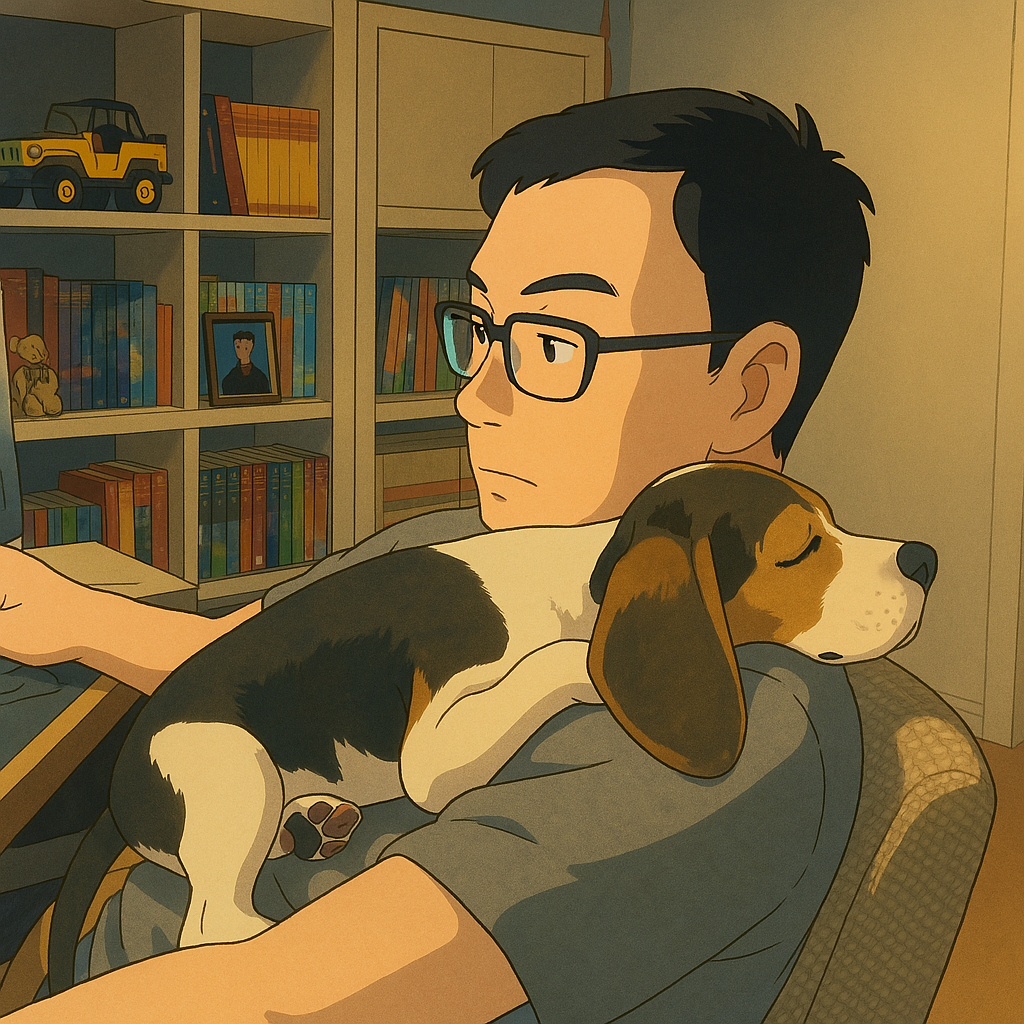
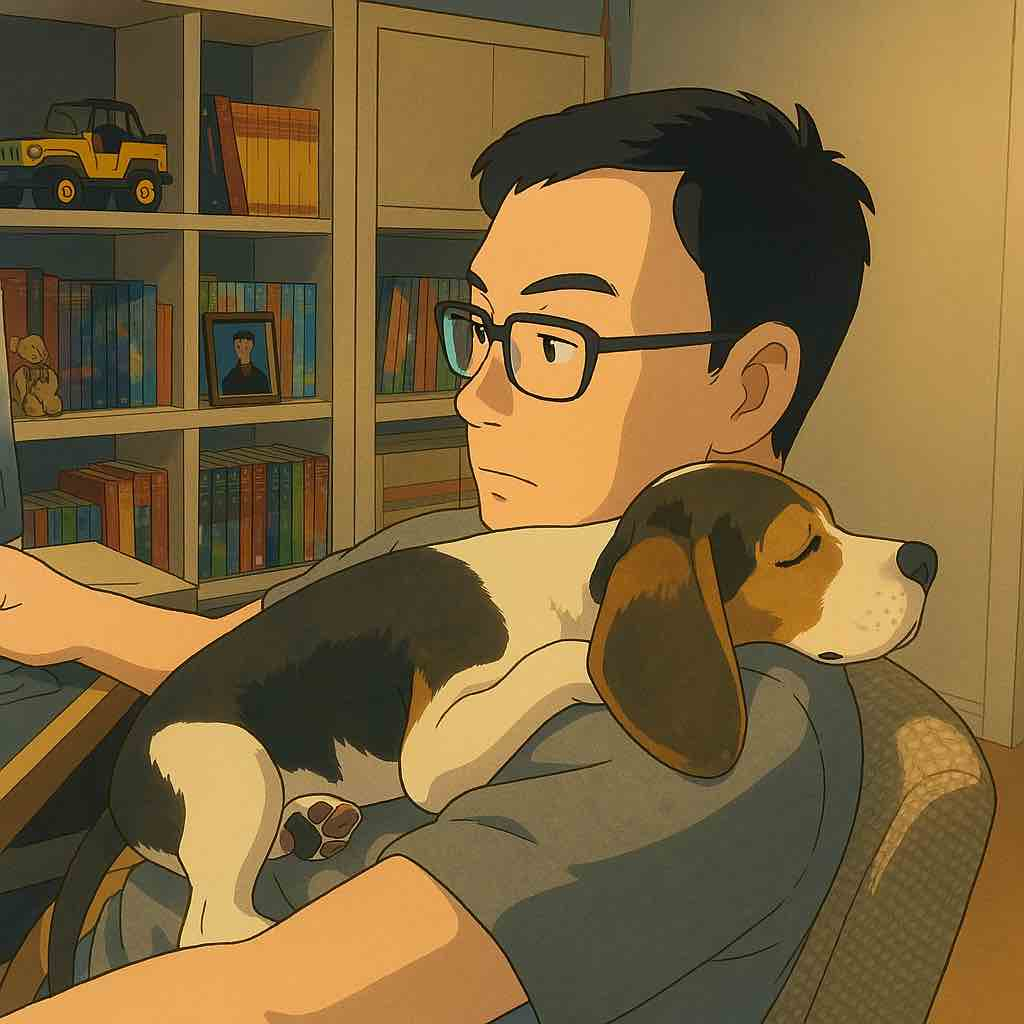
update

diff --git a/src/views/hero/index.vue b/src/views/hero/index.vue
@@ -66,7 +66,7 @@
       <!--background with image-->
       <div class="mx-auto max-w-7xl px-6 lg:px-8">
         <div class="relative isolate overflow-hidden bg-gray-900 py-24 sm:py-32">
-          <img src="/assets/images/hero/img_1.png" alt="" class="absolute inset-0 -z-10 size-full object-cover" />
+          <img src="/assets/images/hero/img_1.jpg" alt="" class="absolute inset-0 -z-10 size-full object-cover" />
           <div class="relative mx-auto max-w-7xl px-6 lg:px-8">
             <div class="absolute -bottom-8 -left-96 -z-10 transform-gpu blur-3xl sm:-bottom-64 sm:-left-40 lg:-bottom-32 lg:left-8 xl:-left-10" aria-hidden="true">
               <div class="aspect-[1266/975] w-[79.125rem] bg-gradient-to-tr from-[#ff4694] to-[#776fff] opacity-20" style="clip-path: polygon(74.1% 44.1%, 100% 61.6%, 97.5% 26.9%, 85.5% 0.1%, 80.7% 2%, 72.5% 32.5%, 60.2% 62.4%, 52.4% 68.1%, 47.5% 58.3%, 45.2% 34.5%, 27.5% 76.7%, 0.1% 64.9%, 17.9% 100%, 27.6% 76.8%, 76.1% 97.7%, 74.1% 44.1%)" />
@@ -109,7 +109,7 @@
                 </div>
                 <div class="relative min-h-[30rem] w-full grow [container-type:inline-size] max-lg:mx-auto max-lg:max-w-sm">
                   <div class="absolute inset-x-10 bottom-0 top-10 overflow-hidden rounded-t-[12cqw] border-x-[3cqw] border-t-[3cqw] border-gray-700 bg-gray-900 shadow-2xl">
-                    <img class="size-full object-cover object-top" src="/assets/images/hero/img_4.png" alt="" />
+                    <img class="size-full object-cover object-top" src="/assets/images/hero/img_4.jpg" alt="" />
                   </div>
                 </div>
               </div>
@@ -123,7 +123,7 @@
                   <p class="mt-2 max-w-lg text-sm/6 text-gray-600 max-lg:text-center">Use Xcode’s Organizer or Transporter (an Apple app) to upload the app to App Store Connect.</p>
                 </div>
                 <div class=" flex flex-1 items-center justify-center px-8 max-lg:pb-12 max-lg:pt-10 sm:px-10 lg:pb-2 ">
-                  <img class="w-full max-lg:max-w-xs rounded-2xl" src="/assets/images/hero/img_5.png" alt="" />
+                  <img class="w-full max-lg:max-w-xs rounded-2xl" src="/assets/images/hero/img_5.jpg" alt="" />
                 </div>
               </div>
               <div class="pointer-events-none absolute inset-px rounded-lg shadow ring-1 ring-black/5 max-lg:rounded-t-[2rem]" />

diff --git a/src/views/friends/index.vue b/src/views/friends/index.vue
@@ -103,31 +103,31 @@ export default {
         name: 'Melon',
         role: 'golden retriever',
         imageUrl:
-            '/assets/images/friends/Melon.png',
+            '/assets/images/friends/Melon.jpg',
       },
       {
         name: 'Mojo',
         role: 'Basenji',
         imageUrl:
-            '/assets/images/friends/Mojo.png',
+            '/assets/images/friends/Mojo.jpg',
       },
       {
         name: 'Nami',
         role: 'Terrier',
         imageUrl:
-            '/assets/images/friends/Nami.png',
+            '/assets/images/friends/Nami.jpg',
       },
       {
         name: 'Drake',
         role: 'Cavalier King',
         imageUrl:
-            '/assets/images/friends/Drake.png',
+            '/assets/images/friends/Drake.jpg',
       },
       {
         name: 'Brody',
         role: 'Terrier',
         imageUrl:
-            '/assets/images/friends/Brody.png',
+            '/assets/images/friends/Brody.jpg',
       }
 
     ])
@@ -136,25 +136,25 @@ export default {
         name: 'Tom',
         role: 'Ragdoll',
         imageUrl:
-            '/assets/images/friends/Tom.png',
+            '/assets/images/friends/Tom.jpg',
       },
       {
         name: 'Guinness',
         role: 'Felis catus',
         imageUrl:
-            '/assets/images/friends/Guinness.png',
+            '/assets/images/friends/Guinness.jpg',
       },
       {
         name: 'Barley',
         role: 'American Shorthair',
         imageUrl:
-            '/assets/images/friends/Barley.png',
+            '/assets/images/friends/Barley.jpg',
       },
       {
         name: 'Figaro',
         role: 'Neva Masquerade',
         imageUrl:
-            '/assets/images/friends/Figaro.png',
+            '/assets/images/friends/Figaro.jpg',
       },
 
     ])
@@ -163,19 +163,19 @@ export default {
         name: 'Muse',
         role: 'hummingbird',
         imageUrl:
-            '/assets/images/friends/Muse.png',
+            '/assets/images/friends/Muse.jpg',
       },
       {
         name: 'Bard',
         role: 'tiger',
         imageUrl:
-            '/assets/images/friends/Bard.png',
+            '/assets/images/friends/Bard.jpg',
       },
       {
         name: 'Velvet',
         role: 'Reptile',
         imageUrl:
-            '/assets/images/friends/Velvet.png',
+            '/assets/images/friends/Velvet.jpg',
       },
 
     ])
